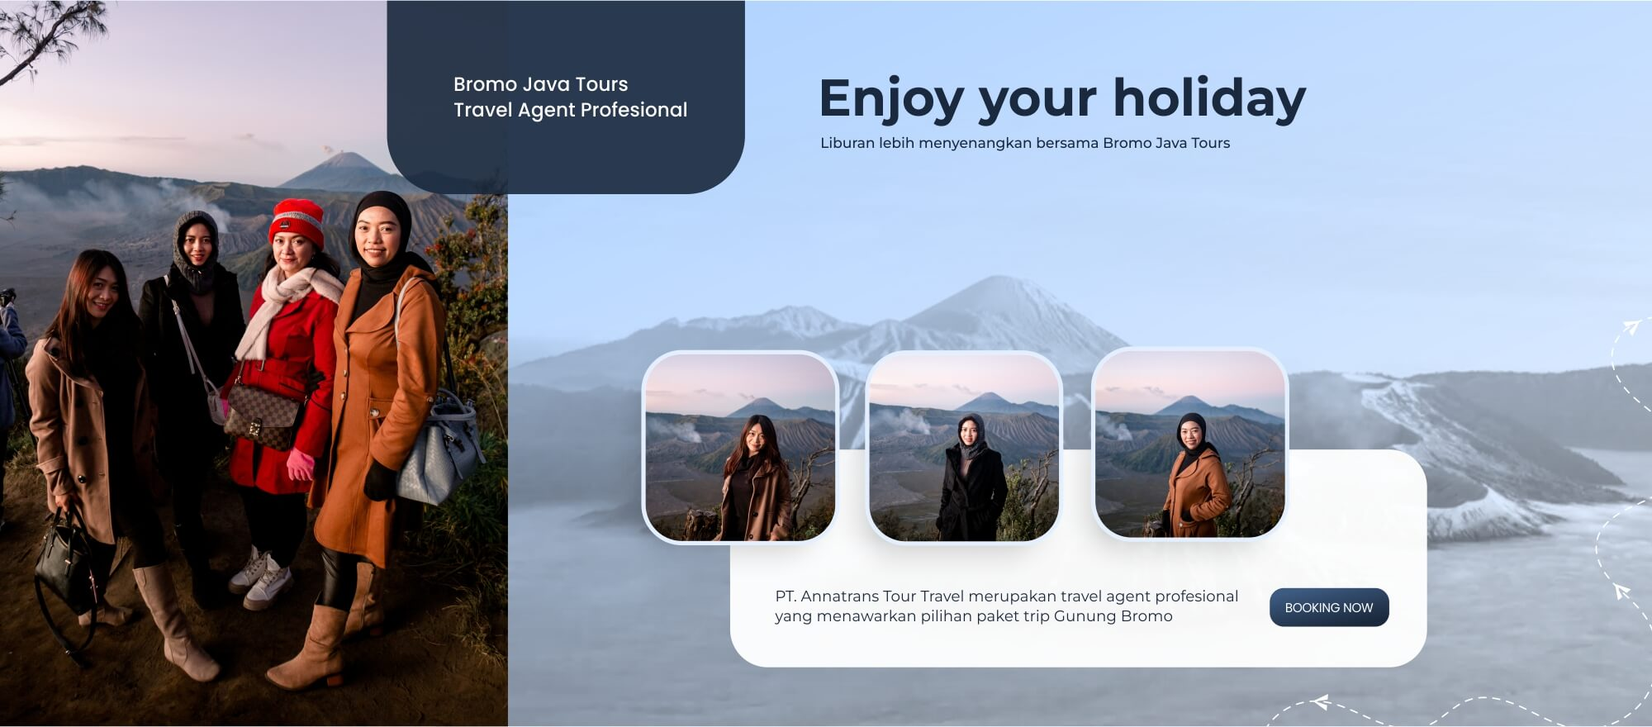
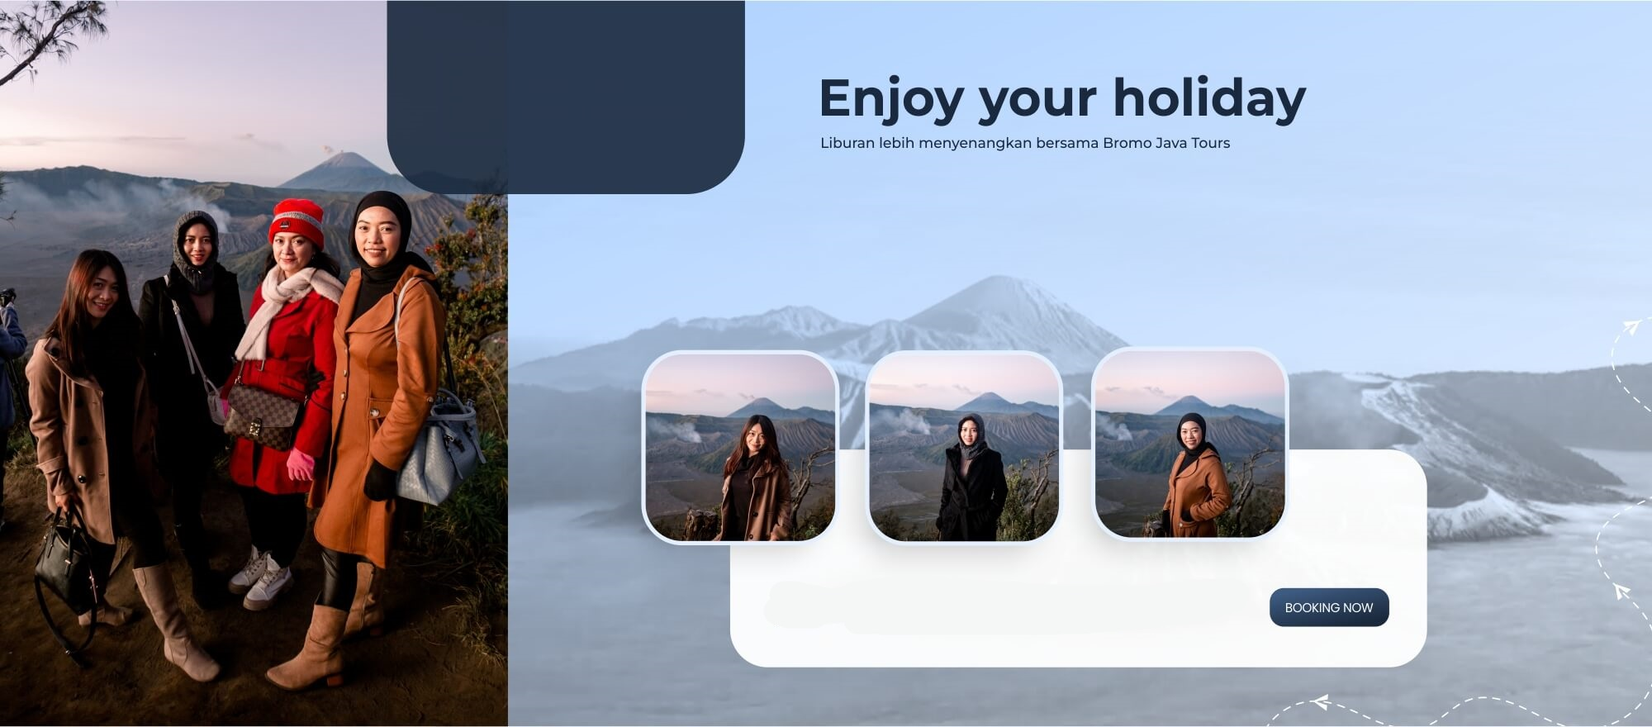
wip contact

Changed region(s): [[0.465, 0.7977, 0.744, 0.8591], [0.279, 0.092, 0.403, 0.1841]]

diff --git a/about.html b/about.html
@@ -37,10 +37,10 @@
                                     :where(.tf_in_flx,.tf_flx){display:inline-flex;flex-wrap:wrap;place-items:center}
             .tf_fa,:is(em,i) tf-lottie{display:inline-block;vertical-align:middle}:is(em,i) tf-lottie{width:1.5em;height:1.5em}.tf_fa{width:1em;height:1em;stroke-width:0;stroke:currentColor;overflow:visible;fill:currentColor;pointer-events:none;text-rendering:optimizeSpeed;buffered-rendering:static}#tf_svg symbol{overflow:visible}:where(.tf_lazy){position:relative;visibility:visible;display:block;opacity:.3}.wow .tf_lazy:not(.tf_swiper-slide){visibility:hidden;opacity:1}div.tf_audio_lazy audio{visibility:hidden;height:0;display:inline}.mejs-container{visibility:visible}.tf_iframe_lazy{transition:opacity .3s ease-in-out;min-height:10px}:where(.tf_flx),.tf_swiper-wrapper{display:flex}.tf_swiper-slide{flex-shrink:0;opacity:0;width:100%;height:100%}.tf_swiper-wrapper>br,.tf_lazy.tf_swiper-wrapper .tf_lazy:after,.tf_lazy.tf_swiper-wrapper .tf_lazy:before{display:none}.tf_lazy:after,.tf_lazy:before{content:'';display:inline-block;position:absolute;width:10px!important;height:10px!important;margin:0 3px;top:50%!important;inset-inline:auto 50%!important;border-radius:100%;background-color:currentColor;visibility:visible;animation:tf-hrz-loader infinite .75s cubic-bezier(.2,.68,.18,1.08)}.tf_lazy:after{width:6px!important;height:6px!important;inset-inline:50% auto!important;margin-top:3px;animation-delay:-.4s}@keyframes tf-hrz-loader{0%,100%{transform:scale(1);opacity:1}50%{transform:scale(.1);opacity:.6}}.tf_lazy_lightbox{position:fixed;background:rgba(11,11,11,.8);color:#ccc;top:0;left:0;display:flex;align-items:center;justify-content:center;z-index:999}.tf_lazy_lightbox .tf_lazy:after,.tf_lazy_lightbox .tf_lazy:before{background:#fff}.tf_vd_lazy,tf-lottie{display:flex;flex-wrap:wrap}tf-lottie{aspect-ratio:1.777}.tf_w.tf_vd_lazy video{width:100%;height:auto;position:static;object-fit:cover}
         </style>
-        <link type="image/png" href="images/bromojavatours-fav.png" rel="apple-touch-icon"><link type="image/png" href="images/bromojavatours-fav.png" rel="icon"><title>Tentang Kami  PT. Annatrans Tour Travel</title>
+        <link type="image/png" href="images/bromojavatours-fav.png" rel="apple-touch-icon"><link type="image/png" href="images/bromojavatours-fav.png" rel="icon"><title>Tentang Kami  PT. Pra travel&tour</title>
 <meta name="robots" content="max-image-preview:large">
-<link rel="alternate" type="application/rss+xml" title="PT. Annatrans Tour Travel � Feed" href="https://www.bromojavatours.com/feed/">
-<link rel="alternate" type="application/rss+xml" title="PT. Annatrans Tour Travel � Umpan Komentar" href="https://www.bromojavatours.com/comments/feed/">
+<link rel="alternate" type="application/rss+xml" title="PT. Pra travel&tour � Feed" href="https://www.bromojavatours.com/feed/">
+<link rel="alternate" type="application/rss+xml" title="PT. Pra travel&tour � Umpan Komentar" href="https://www.bromojavatours.com/comments/feed/">
 <link rel="alternate" title="oEmbed (JSON)" type="application/json+oembed" href="https://www.bromojavatours.com/wp-json/oembed/1.0/embed?url=https%3A%2F%2Fwww.bromojavatours.com%2Ftentang-kami%2F">
 <link rel="alternate" title="oEmbed (XML)" type="text/xml+oembed" href="https://www.bromojavatours.com/wp-json/oembed/1.0/embed?url=https%3A%2F%2Fwww.bromojavatours.com%2Ftentang-kami%2F&format=xml">
 <style id="wp-img-auto-sizes-contain-inline-css">
@@ -61,7 +61,7 @@ img:is([sizes=auto i],[sizes^="auto," i]){contain-intrinsic-size:3000px 1500px}
 <script src="js/jquery.themepunch.revolution.min.js" id="revmin-js"></script>
 <link rel="https://api.w.org/" href="https://www.bromojavatours.com/wp-json/"><link rel="alternate" title="JSON" type="application/json" href="https://www.bromojavatours.com/wp-json/wp/v2/pages/125"><link rel="EditURI" type="application/rsd+xml" title="RSD" href="https://www.bromojavatours.com/xmlrpc.php?rsd">
 <meta name="generator" content="WordPress 6.9.1">
-<link rel="canonical" href="https://www.bromojavatours.com/tentang-kami/">
+<link rel="canonical" href="about.html">
 <link rel="shortlink" href="https://www.bromojavatours.com/?p=125">
 <style>p.hello{font-size:12px;color:darkgray;}#google_language_translator,#flags{text-align:left;}#google_language_translator{clear:both;}#flags{width:165px;}#flags a{display:inline-block;margin-right:2px;}#google_language_translator a{display:none!important;}div.skiptranslate.goog-te-gadget{display:inline!important;}.goog-te-gadget{color:transparent!important;}.goog-te-gadget{font-size:0px!important;}.goog-branding{display:none;}.goog-tooltip{display: none!important;}.goog-tooltip:hover{display: none!important;}.goog-text-highlight{background-color:transparent!important;border:none!important;box-shadow:none!important;}#google_language_translator select.goog-te-combo{color:#32373c;}div.skiptranslate{display:none!important;}body{top:0px!important;}#goog-gt-{display:none!important;}font font{background-color:transparent!important;box-shadow:none!important;position:initial!important;}#glt-translate-trigger > span{color:#ffffff;}#glt-translate-trigger{background:#3c35cc;}.goog-te-gadget .goog-te-combo{width:100%;}</style>
 	<style>
@@ -199,7 +199,7 @@ color:white;
 
 	            
 	            <div class="header-bar tf_box">
-				    <div id="site-logo"><a href="https://www.bromojavatours.com" title="PT. Annatrans Tour Travel"><img src="images/pra-travel-and-tour-logo.png" alt="PT. Pra travel&tour" class="site-logo-image" width="auto" height="100px" data-tf-not-load="1" fetchpriority="high"></a></div>				</div>
+				    <div id="site-logo"><a href="https://www.bromojavatours.com" title="PT. Pra travel&tour"><img src="images/pra-travel-and-tour-logo.png" alt="PT. Pra travel&tour" class="site-logo-image" width="auto" height="100px" data-tf-not-load="1" fetchpriority="high"></a></div>				</div>
 				<!-- /.header-bar -->
 
 									<div id="mobile-menu" class="sidemenu sidemenu-off tf_scrollbar">
@@ -302,7 +302,7 @@ color:white;
                     <!-- module text -->
 <div class="module module-text tb_7otf600   " data-lazy="1">
         <div class="tb_text_wrap">
-        <p>PT. Annatrans Tour Travel adalah perusahaan travel agent yang menawarkan paket wisata Gunung Bromo dengan harga yang cukup terjangkau, Anda bisa menikmati suasana gunung bromo secara langsung dipuncak gunung. Ada beberapa paket yang kami tawarkan untuk Anda, diantaranya Open Trip Bromo, Tour & Sunrise Bromo, Paket wisata Bromo Ijen, Bromo ijen tumpakswu dan lainnya.</p>
+        <p>PT. Pra travel&tour adalah perusahaan travel agent yang menawarkan paket wisata Gunung Bromo dengan harga yang cukup terjangkau, Anda bisa menikmati suasana gunung bromo secara langsung dipuncak gunung. Ada beberapa paket yang kami tawarkan untuk Anda, diantaranya Open Trip Bromo, Tour & Sunrise Bromo, Paket wisata Bromo Ijen, Bromo ijen tumpakswu dan lainnya.</p>
 <p>Anda akan mendapatkan banyak fasilitas selama perjalanan wisata, mulai dari kendaraan terbaru bersih & nyaman, tour guide profesional, transportasi menuju lokasi, dan dokumentasi berupa foto dan video. Selain itu, kami juga menyewakan Jeep  untuk berkeliling disekitar kawasan Gunung Bromo dan sewa mobil harian maupun bulanan.</p>    </div>
 </div>
 <!-- /module text -->        </div>
@@ -327,7 +327,7 @@ color:white;
 <li>Surat Ijin Lokasi No Induk Usaha  0405230008469xxxx</li>
 <li>Tanda daftar usaha pariwisata (TDP): no. Induk usaha 040523000xxxx</li>
 <li>Nomor Induk Usaha (NIB) No. 040523000xxxx</li>
-<li>Surat keterangan terdaftar PT. ANNATRANS TOUR TRAVEL : No. AHU-030314.AH.xx.xx.Tahun 2023</li>
+<li>Surat keterangan terdaftar PT. Pra travel&tour : No. AHU-030314.AH.xx.xx.Tahun 2023</li>
 </ul>    </div>
 </div>
 <!-- /module text -->        <div data-lazy="1" class="module_subrow themify_builder_sub_row tf_w col_align_middle tb_col_count_2 tb_hxwc117">
@@ -352,7 +352,7 @@ color:white;
 <!-- module text -->
 <div class="module module-text tb_0edh984   " data-lazy="1">
         <div class="tb_text_wrap">
-        <p>BANK SYARIAH INDONESIA (BSI)<br>7234815738<br>a.n PT. ANNATRANS TOUR TRAVEL</p>    </div>
+        <p>BANK SYARIAH INDONESIA (BSI)<br>7234815738<br>a.n PT. Pra travel&tour</p>    </div>
 </div>
 <!-- /module text -->        </div>
                     </div>
@@ -365,7 +365,7 @@ color:white;
                     <!-- module text -->
 <div class="module module-text tb_ratw656   " data-lazy="1">
         <div class="tb_text_wrap">
-        <p>PT. Annatrans Tour Travel berlokasi di Dusun Krajan RT 03 RW 01 Tambaksari, Kraton, Kab. Pasuruan, Jawa Timur. Untuk Anda yang ingin berkonsultasi dengan kami secara langsung, Anda bisa datang langsung ke kantor kami.</p>    </div>
+        <p>PT. Pra travel&tour berlokasi di Dusun Krajan RT 03 RW 01 Tambaksari, Kraton, Kab. Pasuruan, Jawa Timur. Untuk Anda yang ingin berkonsultasi dengan kami secara langsung, Anda bisa datang langsung ke kantor kami.</p>    </div>
 </div>
 <!-- /module text -->        <div data-lazy="1" class="module_subrow themify_builder_sub_row tf_w col_align_top tb_col_count_4 tb_d8ai307">
                 <div data-lazy="1" class="module_column sub_column col4-1 tb_594n307 first">
@@ -481,7 +481,7 @@ color:white;
 <!-- /module plain text --><!-- module text -->
 <div class="module module-text tb_3v9i788   " data-lazy="1">
         <div class="tb_text_wrap">
-        <p>PT. Annatrans Tour Travel merupakan perusahaan tour travel yang menawarkan paket wisata Gunung Bromo dengan harga yang cukup terjangkau, fasilitas lengkap, tour guide profesional.</p>    </div>
+        <p>PT. Pra travel&tour merupakan perusahaan tour travel yang menawarkan paket wisata Gunung Bromo dengan harga yang cukup terjangkau, fasilitas lengkap, tour guide profesional.</p>    </div>
 </div>
 <!-- /module text -->        </div>
                     </div>
@@ -530,6 +530,12 @@ color:white;
                             <a href="tel:081336892883" rel="noopener" target="_blank">
                                                                     <em class="tf_box"><svg class="tf_fa tf-la-phone-volume-solid" aria-hidden="true"><use href="#tf-la-phone-volume-solid"></use></svg></em>
                                                                             <span>Admin 2 : 0813-3689-2883</span>
+                                                                    </a>
+                    </div>
+            <div class="module-icon-item">
+                            <a href="mailto:" rel="noopener" target="_blank">
+                                                                    <em class="tf_box"><svg class="tf_fa tf-la-envelope" aria-hidden="true"><use href="#tf-la-envelope"></use></svg></em>
+                                                                            <span></span>
                                                                     </a>
                     </div>
             <div class="module-icon-item">

diff --git a/index.html b/index.html
@@ -34,10 +34,10 @@
                                     :where(.tf_in_flx,.tf_flx){display:inline-flex;flex-wrap:wrap;place-items:center}
             .tf_fa,:is(em,i) tf-lottie{display:inline-block;vertical-align:middle}:is(em,i) tf-lottie{width:1.5em;height:1.5em}.tf_fa{width:1em;height:1em;stroke-width:0;stroke:currentColor;overflow:visible;fill:currentColor;pointer-events:none;text-rendering:optimizeSpeed;buffered-rendering:static}#tf_svg symbol{overflow:visible}:where(.tf_lazy){position:relative;visibility:visible;display:block;opacity:.3}.wow .tf_lazy:not(.tf_swiper-slide){visibility:hidden;opacity:1}div.tf_audio_lazy audio{visibility:hidden;height:0;display:inline}.mejs-container{visibility:visible}.tf_iframe_lazy{transition:opacity .3s ease-in-out;min-height:10px}:where(.tf_flx),.tf_swiper-wrapper{display:flex}.tf_swiper-slide{flex-shrink:0;opacity:0;width:100%;height:100%}.tf_swiper-wrapper>br,.tf_lazy.tf_swiper-wrapper .tf_lazy:after,.tf_lazy.tf_swiper-wrapper .tf_lazy:before{display:none}.tf_lazy:after,.tf_lazy:before{content:'';display:inline-block;position:absolute;width:10px!important;height:10px!important;margin:0 3px;top:50%!important;inset-inline:auto 50%!important;border-radius:100%;background-color:currentColor;visibility:visible;animation:tf-hrz-loader infinite .75s cubic-bezier(.2,.68,.18,1.08)}.tf_lazy:after{width:6px!important;height:6px!important;inset-inline:50% auto!important;margin-top:3px;animation-delay:-.4s}@keyframes tf-hrz-loader{0%,100%{transform:scale(1);opacity:1}50%{transform:scale(.1);opacity:.6}}.tf_lazy_lightbox{position:fixed;background:rgba(11,11,11,.8);color:#ccc;top:0;left:0;display:flex;align-items:center;justify-content:center;z-index:999}.tf_lazy_lightbox .tf_lazy:after,.tf_lazy_lightbox .tf_lazy:before{background:#fff}.tf_vd_lazy,tf-lottie{display:flex;flex-wrap:wrap}tf-lottie{aspect-ratio:1.777}.tf_w.tf_vd_lazy video{width:100%;height:auto;position:static;object-fit:cover}
         </style>
-        <link type="image/png" href="images/bromojavatours-fav.png" rel="apple-touch-icon"><link type="image/png" href="images/bromojavatours-fav.png" rel="icon"><title>PT. Annatrans Tour Travel  Open Trip & Paket Wisata Gunung Bromo</title>
+        <link type="image/png" href="images/bromojavatours-fav.png" rel="apple-touch-icon"><link type="image/png" href="images/bromojavatours-fav.png" rel="icon"><title>PT. Pra travel&tour  Open Trip & Paket Wisata Gunung Bromo</title>
 <meta name="robots" content="max-image-preview:large">
-<link rel="alternate" type="application/rss+xml" title="PT. Annatrans Tour Travel � Feed" href="https://www.bromojavatours.com/feed/">
-<link rel="alternate" type="application/rss+xml" title="PT. Annatrans Tour Travel � Umpan Komentar" href="https://www.bromojavatours.com/comments/feed/">
+<link rel="alternate" type="application/rss+xml" title="PT. Pra travel&tour � Feed" href="https://www.bromojavatours.com/feed/">
+<link rel="alternate" type="application/rss+xml" title="PT. Pra travel&tour � Umpan Komentar" href="https://www.bromojavatours.com/comments/feed/">
 <link rel="alternate" title="oEmbed (JSON)" type="application/json+oembed" href="https://www.bromojavatours.com/wp-json/oembed/1.0/embed?url=https%3A%2F%2Fwww.bromojavatours.com%2F">
 <link rel="alternate" title="oEmbed (XML)" type="text/xml+oembed" href="https://www.bromojavatours.com/wp-json/oembed/1.0/embed?url=https%3A%2F%2Fwww.bromojavatours.com%2F&format=xml">
 <style id="wp-img-auto-sizes-contain-inline-css">
@@ -220,7 +220,7 @@ color:white;
 
 	            
 	            <div class="header-bar tf_box">
-				    <div id="site-logo"><a href="https://www.bromojavatours.com" title="PT. Annatrans Tour Travel"><img src="images/pra-travel-and-tour-logo.png" alt="PT. Pra travel&tour" class="site-logo-image" width="auto" height="100px" data-tf-not-load="1" fetchpriority="high"></a></div>				</div>
+				    <div id="site-logo"><a href="https://www.bromojavatours.com" title="PT. Pra travel&tour"><img src="images/pra-travel-and-tour-logo.png" alt="PT. Pra travel&tour" class="site-logo-image" width="auto" height="100px" data-tf-not-load="1" fetchpriority="high"></a></div>				</div>
 				<!-- /.header-bar -->
 
 									<div id="mobile-menu" class="sidemenu sidemenu-off tf_scrollbar">
@@ -441,12 +441,12 @@ var revapi1,
 <div class="module module-text tb_0m8b134   " data-lazy="1">
         <div class="tb_text_wrap">
         <p>Bromo adalah nama sebuah gunung yang berlokasi di Kabupaten Probolinggo, Jawa Timur. Gunung Bromo adalah bagian dari Taman Nasional Bromo Tengger Semeru yang terkenal di Indonesia.</p>
-<p><strong>ANNATRANS Tour Travel</strong> mengajak Anda untuk berwisata di Gunung Bromo. Ajak teman atau sahabat terdekat Anda untuk menikmati suasana alam yang indah di Jawa Timur. Kami menawarkan paket trip Gunung Bromo dengan harga yang cukup terjangkau.</p>    </div>
+<p><strong>Pra travel&tour</strong> mengajak Anda untuk berwisata di Gunung Bromo. Ajak teman atau sahabat terdekat Anda untuk menikmati suasana alam yang indah di Jawa Timur. Kami menawarkan paket trip Gunung Bromo dengan harga yang cukup terjangkau.</p>    </div>
 </div>
 <!-- /module text --><!-- module buttons -->
 <div class="module module-buttons tb_695h152 buttons-horizontal solid  " data-lazy="1">
         <div class="module-buttons-item tf_in_flx">
-                        <a href="https://www.bromojavatours.com/tentang-kami/" class="ui builder_button tf_in_flx tb_default_color">
+                        <a href="about.html" class="ui builder_button tf_in_flx tb_default_color">
                                                 Selengkapnya [...]                                        </a>
                 </div>
             </div>
@@ -601,7 +601,7 @@ var revapi1,
 <!-- /module plain text --><!-- module buttons -->
 <div class="module module-buttons tb_1p33422 buttons-horizontal solid  " data-lazy="1">
         <div class="module-buttons-item tf_in_flx">
-                        <a href="https://www.bromojavatours.com/paket-wisata/" class="ui builder_button tf_in_flx tb_default_color">
+                        <a href="packet.html" class="ui builder_button tf_in_flx tb_default_color">
                                                 Lihat Paket                                        <em><svg class="tf_fa tf-la-arrow-right-solid" aria-hidden="true"><use href="#tf-la-arrow-right-solid"></use></svg></em>                            </a>
                 </div>
             </div>
@@ -642,7 +642,7 @@ var revapi1,
 <!-- /module plain text --><!-- module buttons -->
 <div class="module module-buttons tb_cfzy67 buttons-horizontal solid  " data-lazy="1">
         <div class="module-buttons-item tf_in_flx">
-                        <a href="https://www.bromojavatours.com/paket-wisata/" class="ui builder_button tf_in_flx tb_default_color">
+                        <a href="packet.html" class="ui builder_button tf_in_flx tb_default_color">
                                                 Lihat Paket                                        <em><svg class="tf_fa tf-la-arrow-right-solid" aria-hidden="true"><use href="#tf-la-arrow-right-solid"></use></svg></em>                            </a>
                 </div>
             </div>
@@ -680,7 +680,7 @@ var revapi1,
 <!-- /module plain text --><!-- module buttons -->
 <div class="module module-buttons tb_c26q554 buttons-horizontal solid  " data-lazy="1">
         <div class="module-buttons-item tf_in_flx">
-                        <a href="https://www.bromojavatours.com/paket-wisata/#religi" class="ui builder_button tf_in_flx tb_default_color">
+                        <a href="packet.html#religi" class="ui builder_button tf_in_flx tb_default_color">
                                                 Lihat Paket                                        <em><svg class="tf_fa tf-la-arrow-right-solid" aria-hidden="true"><use href="#tf-la-arrow-right-solid"></use></svg></em>                            </a>
                 </div>
             </div>
@@ -951,7 +951,7 @@ var revapi1,
 <!-- /module plain text --><!-- module plain text -->
 <div class="module module-plain-text tb_nvj6697 " data-lazy="1">
         <div class="tb_text_wrap">
-    ANNATRANS Tour Travel telah dipercaya oleh banyak wisatawan yang ingin berwisata ke Gunung Bromo. Dengan tour guide profesional dan berpengalaman, kami akan ajak Anda menikmati suasana alam disekitar Gunung Bromo, Layanan Sewa Jeep Bromo bisa Anda manfaatkan untuk berkeliling di kawasan Pasir Berbisik atau untuk sekedar berfoto ria.    </div>
+    Pra travel&tour telah dipercaya oleh banyak wisatawan yang ingin berwisata ke Gunung Bromo. Dengan tour guide profesional dan berpengalaman, kami akan ajak Anda menikmati suasana alam disekitar Gunung Bromo, Layanan Sewa Jeep Bromo bisa Anda manfaatkan untuk berkeliling di kawasan Pasir Berbisik atau untuk sekedar berfoto ria.    </div>
 </div>
 <!-- /module plain text --><!-- module buttons -->
 <div class="module module-buttons tb_81x8155 buttons-horizontal solid   hover-wow" data-tf-animation_hover="pulse" data-lazy="1">
@@ -1017,7 +1017,7 @@ var revapi1,
 <!-- /module plain text --><!-- module text -->
 <div class="module module-text tb_3v9i788   " data-lazy="1">
         <div class="tb_text_wrap">
-        <p>PT. Annatrans Tour Travel merupakan perusahaan tour travel yang menawarkan paket wisata Gunung Bromo dengan harga yang cukup terjangkau, fasilitas lengkap, tour guide profesional.</p>    </div>
+        <p>PT. Pra travel&tour merupakan perusahaan tour travel yang menawarkan paket wisata Gunung Bromo dengan harga yang cukup terjangkau, fasilitas lengkap, tour guide profesional.</p>    </div>
 </div>
 <!-- /module text -->        </div>
                     </div>
@@ -1069,9 +1069,9 @@ var revapi1,
                                                                     </a>
                     </div>
             <div class="module-icon-item">
-                            <a href="/cdn-cgi/l/email-protection#a8d8dc86c9c6c6c9dcdac9c6dbdcc7dddadcdac9decdc4e8cfc5c9c1c486cbc7c5" rel="noopener" target="_blank">
+                            <a href="mailto:" rel="noopener" target="_blank">
                                                                     <em class="tf_box"><svg class="tf_fa tf-la-envelope" aria-hidden="true"><use href="#tf-la-envelope"></use></svg></em>
[1 lines of base64/hex data omitted]
+                                                                            <span></span>
                                                                     </a>
                     </div>
             <div class="module-icon-item">

diff --git a/packet.html b/packet.html
@@ -37,10 +37,10 @@
                                     :where(.tf_in_flx,.tf_flx){display:inline-flex;flex-wrap:wrap;place-items:center}
             .tf_fa,:is(em,i) tf-lottie{display:inline-block;vertical-align:middle}:is(em,i) tf-lottie{width:1.5em;height:1.5em}.tf_fa{width:1em;height:1em;stroke-width:0;stroke:currentColor;overflow:visible;fill:currentColor;pointer-events:none;text-rendering:optimizeSpeed;buffered-rendering:static}#tf_svg symbol{overflow:visible}:where(.tf_lazy){position:relative;visibility:visible;display:block;opacity:.3}.wow .tf_lazy:not(.tf_swiper-slide){visibility:hidden;opacity:1}div.tf_audio_lazy audio{visibility:hidden;height:0;display:inline}.mejs-container{visibility:visible}.tf_iframe_lazy{transition:opacity .3s ease-in-out;min-height:10px}:where(.tf_flx),.tf_swiper-wrapper{display:flex}.tf_swiper-slide{flex-shrink:0;opacity:0;width:100%;height:100%}.tf_swiper-wrapper>br,.tf_lazy.tf_swiper-wrapper .tf_lazy:after,.tf_lazy.tf_swiper-wrapper .tf_lazy:before{display:none}.tf_lazy:after,.tf_lazy:before{content:'';display:inline-block;position:absolute;width:10px!important;height:10px!important;margin:0 3px;top:50%!important;inset-inline:auto 50%!important;border-radius:100%;background-color:currentColor;visibility:visible;animation:tf-hrz-loader infinite .75s cubic-bezier(.2,.68,.18,1.08)}.tf_lazy:after{width:6px!important;height:6px!important;inset-inline:50% auto!important;margin-top:3px;animation-delay:-.4s}@keyframes tf-hrz-loader{0%,100%{transform:scale(1);opacity:1}50%{transform:scale(.1);opacity:.6}}.tf_lazy_lightbox{position:fixed;background:rgba(11,11,11,.8);color:#ccc;top:0;left:0;display:flex;align-items:center;justify-content:center;z-index:999}.tf_lazy_lightbox .tf_lazy:after,.tf_lazy_lightbox .tf_lazy:before{background:#fff}.tf_vd_lazy,tf-lottie{display:flex;flex-wrap:wrap}tf-lottie{aspect-ratio:1.777}.tf_w.tf_vd_lazy video{width:100%;height:auto;position:static;object-fit:cover}
         </style>
-        <link type="image/png" href="images/bromojavatours-fav.png" rel="apple-touch-icon"><link type="image/png" href="images/bromojavatours-fav.png" rel="icon"><title>Paket Wisata  PT. Annatrans Tour Travel</title>
+        <link type="image/png" href="images/bromojavatours-fav.png" rel="apple-touch-icon"><link type="image/png" href="images/bromojavatours-fav.png" rel="icon"><title>Paket Wisata  PT. Pra travel&tour</title>
 <meta name="robots" content="max-image-preview:large">
-<link rel="alternate" type="application/rss+xml" title="PT. Annatrans Tour Travel � Feed" href="https://www.bromojavatours.com/feed/">
-<link rel="alternate" type="application/rss+xml" title="PT. Annatrans Tour Travel � Umpan Komentar" href="https://www.bromojavatours.com/comments/feed/">
+<link rel="alternate" type="application/rss+xml" title="PT. Pra travel&tour � Feed" href="https://www.bromojavatours.com/feed/">
+<link rel="alternate" type="application/rss+xml" title="PT. Pra travel&tour � Umpan Komentar" href="https://www.bromojavatours.com/comments/feed/">
 <link rel="alternate" title="oEmbed (JSON)" type="application/json+oembed" href="https://www.bromojavatours.com/wp-json/oembed/1.0/embed?url=https%3A%2F%2Fwww.bromojavatours.com%2Fpaket-wisata%2F">
 <link rel="alternate" title="oEmbed (XML)" type="text/xml+oembed" href="https://www.bromojavatours.com/wp-json/oembed/1.0/embed?url=https%3A%2F%2Fwww.bromojavatours.com%2Fpaket-wisata%2F&format=xml">
 <style id="wp-img-auto-sizes-contain-inline-css">
@@ -61,7 +61,7 @@ img:is([sizes=auto i],[sizes^="auto," i]){contain-intrinsic-size:3000px 1500px}
 <script src="js/jquery.themepunch.revolution.min.js" id="revmin-js"></script>
 <link rel="https://api.w.org/" href="https://www.bromojavatours.com/wp-json/"><link rel="alternate" title="JSON" type="application/json" href="https://www.bromojavatours.com/wp-json/wp/v2/pages/121"><link rel="EditURI" type="application/rsd+xml" title="RSD" href="https://www.bromojavatours.com/xmlrpc.php?rsd">
 <meta name="generator" content="WordPress 6.9.1">
-<link rel="canonical" href="https://www.bromojavatours.com/paket-wisata/">
+<link rel="canonical" href="packet.html">
 <link rel="shortlink" href="https://www.bromojavatours.com/?p=121">
 <style>p.hello{font-size:12px;color:darkgray;}#google_language_translator,#flags{text-align:left;}#google_language_translator{clear:both;}#flags{width:165px;}#flags a{display:inline-block;margin-right:2px;}#google_language_translator a{display:none!important;}div.skiptranslate.goog-te-gadget{display:inline!important;}.goog-te-gadget{color:transparent!important;}.goog-te-gadget{font-size:0px!important;}.goog-branding{display:none;}.goog-tooltip{display: none!important;}.goog-tooltip:hover{display: none!important;}.goog-text-highlight{background-color:transparent!important;border:none!important;box-shadow:none!important;}#google_language_translator select.goog-te-combo{color:#32373c;}div.skiptranslate{display:none!important;}body{top:0px!important;}#goog-gt-{display:none!important;}font font{background-color:transparent!important;box-shadow:none!important;position:initial!important;}#glt-translate-trigger > span{color:#ffffff;}#glt-translate-trigger{background:#3c35cc;}.goog-te-gadget .goog-te-combo{width:100%;}</style>
 	<style>
@@ -199,7 +199,7 @@ color:white;
 
 	            
 	            <div class="header-bar tf_box">
-				    <div id="site-logo"><a href="https://www.bromojavatours.com" title="PT. Annatrans Tour Travel"><img src="images/pra-travel-and-tour-logo.png" alt="PT. Pra travel&tour" class="site-logo-image" width="auto" height="100px" data-tf-not-load="1" fetchpriority="high"></a></div>				</div>
+				    <div id="site-logo"><a href="https://www.bromojavatours.com" title="PT. Pra travel&tour"><img src="images/pra-travel-and-tour-logo.png" alt="PT. Pra travel&tour" class="site-logo-image" width="auto" height="100px" data-tf-not-load="1" fetchpriority="high"></a></div>				</div>
 				<!-- /.header-bar -->
 
 									<div id="mobile-menu" class="sidemenu sidemenu-off tf_scrollbar">
@@ -3112,7 +3112,7 @@ color:white;
 <!-- /module plain text --><!-- module text -->
 <div class="module module-text tb_3v9i788   " data-lazy="1">
         <div class="tb_text_wrap">
-        <p>PT. Annatrans Tour Travel merupakan perusahaan tour travel yang menawarkan paket wisata Gunung Bromo dengan harga yang cukup terjangkau, fasilitas lengkap, tour guide profesional.</p>    </div>
+        <p>PT. Pra travel&tour merupakan perusahaan tour travel yang menawarkan paket wisata Gunung Bromo dengan harga yang cukup terjangkau, fasilitas lengkap, tour guide profesional.</p>    </div>
 </div>
 <!-- /module text -->        </div>
                     </div>
@@ -3161,6 +3161,12 @@ color:white;
                             <a href="tel:081336892883" rel="noopener" target="_blank">
                                                                     <em class="tf_box"><svg class="tf_fa tf-la-phone-volume-solid" aria-hidden="true"><use href="#tf-la-phone-volume-solid"></use></svg></em>
                                                                             <span>Admin 2 : 0813-3689-2883</span>
+                                                                    </a>
+                    </div>
+            <div class="module-icon-item">
+                            <a href="mailto:" rel="noopener" target="_blank">
+                                                                    <em class="tf_box"><svg class="tf_fa tf-la-envelope" aria-hidden="true"><use href="#tf-la-envelope"></use></svg></em>
+                                                                            <span></span>
                                                                     </a>
                     </div>
             <div class="module-icon-item">

diff --git a/rent.html b/rent.html
@@ -37,10 +37,10 @@
                                     :where(.tf_in_flx,.tf_flx){display:inline-flex;flex-wrap:wrap;place-items:center}
             .tf_fa,:is(em,i) tf-lottie{display:inline-block;vertical-align:middle}:is(em,i) tf-lottie{width:1.5em;height:1.5em}.tf_fa{width:1em;height:1em;stroke-width:0;stroke:currentColor;overflow:visible;fill:currentColor;pointer-events:none;text-rendering:optimizeSpeed;buffered-rendering:static}#tf_svg symbol{overflow:visible}:where(.tf_lazy){position:relative;visibility:visible;display:block;opacity:.3}.wow .tf_lazy:not(.tf_swiper-slide){visibility:hidden;opacity:1}div.tf_audio_lazy audio{visibility:hidden;height:0;display:inline}.mejs-container{visibility:visible}.tf_iframe_lazy{transition:opacity .3s ease-in-out;min-height:10px}:where(.tf_flx),.tf_swiper-wrapper{display:flex}.tf_swiper-slide{flex-shrink:0;opacity:0;width:100%;height:100%}.tf_swiper-wrapper>br,.tf_lazy.tf_swiper-wrapper .tf_lazy:after,.tf_lazy.tf_swiper-wrapper .tf_lazy:before{display:none}.tf_lazy:after,.tf_lazy:before{content:'';display:inline-block;position:absolute;width:10px!important;height:10px!important;margin:0 3px;top:50%!important;inset-inline:auto 50%!important;border-radius:100%;background-color:currentColor;visibility:visible;animation:tf-hrz-loader infinite .75s cubic-bezier(.2,.68,.18,1.08)}.tf_lazy:after{width:6px!important;height:6px!important;inset-inline:50% auto!important;margin-top:3px;animation-delay:-.4s}@keyframes tf-hrz-loader{0%,100%{transform:scale(1);opacity:1}50%{transform:scale(.1);opacity:.6}}.tf_lazy_lightbox{position:fixed;background:rgba(11,11,11,.8);color:#ccc;top:0;left:0;display:flex;align-items:center;justify-content:center;z-index:999}.tf_lazy_lightbox .tf_lazy:after,.tf_lazy_lightbox .tf_lazy:before{background:#fff}.tf_vd_lazy,tf-lottie{display:flex;flex-wrap:wrap}tf-lottie{aspect-ratio:1.777}.tf_w.tf_vd_lazy video{width:100%;height:auto;position:static;object-fit:cover}
         </style>
-        <link type="image/png" href="images/bromojavatours-fav.png" rel="apple-touch-icon"><link type="image/png" href="images/bromojavatours-fav.png" rel="icon"><title>Rental Mobil  PT. Annatrans Tour Travel</title>
+        <link type="image/png" href="images/bromojavatours-fav.png" rel="apple-touch-icon"><link type="image/png" href="images/bromojavatours-fav.png" rel="icon"><title>Rental Mobil  PT. Pra travel&tour</title>
 <meta name="robots" content="max-image-preview:large">
-<link rel="alternate" type="application/rss+xml" title="PT. Annatrans Tour Travel � Feed" href="https://www.bromojavatours.com/feed/">
-<link rel="alternate" type="application/rss+xml" title="PT. Annatrans Tour Travel � Umpan Komentar" href="https://www.bromojavatours.com/comments/feed/">
+<link rel="alternate" type="application/rss+xml" title="PT. Pra travel&tour � Feed" href="https://www.bromojavatours.com/feed/">
+<link rel="alternate" type="application/rss+xml" title="PT. Pra travel&tour � Umpan Komentar" href="https://www.bromojavatours.com/comments/feed/">
 <link rel="alternate" title="oEmbed (JSON)" type="application/json+oembed" href="https://www.bromojavatours.com/wp-json/oembed/1.0/embed?url=https%3A%2F%2Fwww.bromojavatours.com%2Frental-mobil%2F">
 <link rel="alternate" title="oEmbed (XML)" type="text/xml+oembed" href="https://www.bromojavatours.com/wp-json/oembed/1.0/embed?url=https%3A%2F%2Fwww.bromojavatours.com%2Frental-mobil%2F&format=xml">
 <style id="wp-img-auto-sizes-contain-inline-css">
@@ -199,7 +199,7 @@ color:white;
 
 	            
 	            <div class="header-bar tf_box">
-				    <div id="site-logo"><a href="https://www.bromojavatours.com" title="PT. Annatrans Tour Travel"><img src="images/pra-travel-and-tour-logo.png" alt="PT. Pra travel&tour" class="site-logo-image" width="auto" height="100px" data-tf-not-load="1" fetchpriority="high"></a></div>				</div>
+				    <div id="site-logo"><a href="https://www.bromojavatours.com" title="PT. Pra travel&tour"><img src="images/pra-travel-and-tour-logo.png" alt="PT. Pra travel&tour" class="site-logo-image" width="auto" height="100px" data-tf-not-load="1" fetchpriority="high"></a></div>				</div>
 				<!-- /.header-bar -->
 
 									<div id="mobile-menu" class="sidemenu sidemenu-off tf_scrollbar">
@@ -582,7 +582,7 @@ color:white;
 <!-- /module plain text --><!-- module text -->
 <div class="module module-text tb_3v9i788   " data-lazy="1">
         <div class="tb_text_wrap">
-        <p>PT. Annatrans Tour Travel merupakan perusahaan tour travel yang menawarkan paket wisata Gunung Bromo dengan harga yang cukup terjangkau, fasilitas lengkap, tour guide profesional.</p>    </div>
+        <p>PT. Pra travel&tour merupakan perusahaan tour travel yang menawarkan paket wisata Gunung Bromo dengan harga yang cukup terjangkau, fasilitas lengkap, tour guide profesional.</p>    </div>
 </div>
 <!-- /module text -->        </div>
                     </div>
@@ -631,6 +631,12 @@ color:white;
                             <a href="tel:081336892883" rel="noopener" target="_blank">
                                                                     <em class="tf_box"><svg class="tf_fa tf-la-phone-volume-solid" aria-hidden="true"><use href="#tf-la-phone-volume-solid"></use></svg></em>
                                                                             <span>Admin 2 : 0813-3689-2883</span>
+                                                                    </a>
+                    </div>
+            <div class="module-icon-item">
+                            <a href="mailto:" rel="noopener" target="_blank">
+                                                                    <em class="tf_box"><svg class="tf_fa tf-la-envelope" aria-hidden="true"><use href="#tf-la-envelope"></use></svg></em>
+                                                                            <span></span>
                                                                     </a>
                     </div>
             <div class="module-icon-item">

diff --git a/js/content-data.js b/js/content-data.js
@@ -9,22 +9,24 @@ var SITE_CONTENT = {
   },
   "topbar": {
     "promo": "Promo Paket Wisata Bromo",
-    "phone1": "0899-9999-9999",
-    "phone2": "08xx-xxxx-xxxx"
+    "phone1": "+62823-0128-7662",
+    "phone2": "+628xx-xxxx-xxxx"
   },
   "nav": {
     "home": "Home",
     "packages": "Paket Wisata",
     "rental": "Rental Mobil",
-    "about": "Tentang Kami"
+    "about": "Tentang Kami",
+    "contactUrl": "https://wa.me/6282301287662"
   },
 
   "footer": {
     "brandName": "Pra travel&tour",
     "description": "<p>PT. Pra travel&tour merupakan perusahaan tour travel yang menawarkan paket wisata Gunung Bromo dengan harga yang cukup terjangkau, fasilitas lengkap, tour guide profesional.</p>",
     "contactTitle": "Hubungi Kami",
-    "admin1": "Admin 1 : \u202a0812-3126-8185",
-    "admin2": "Admin 2 : 0813-3689-2883",
+    "admin1": "Admin 1 : +62823-0128-7662",
+    "admin2": "Admin 2 : +62899-9999-9999",
+    "email": "pratravelandtour@gmail.com",
     "address": "Krajan 1, Sepuhgembol, Kec. Wonomerto, Kabupaten Probolinggo, Jawa Timur 67253",
     "copyright": "\u00a9 2026 Pra travel&tour. All Rights Reserved."
   },
@@ -33,7 +35,7 @@ var SITE_CONTENT = {
     "welcome": "WELCOME TO OUR WEBSITE",
 
     "aboutTitle": "About<span style=\"color: #333;\"> Us</span>",
-    "aboutPara1": "<p>Bromo adalah nama sebuah gunung yang berlokasi di Kabupaten Probolinggo, Jawa Timur. Gunung Bromo adalah bagian dari Taman Nasional Bromo Tengger Semeru yang terkenal di Indonesia.</p>\n<p><strong>ANNATRANS Tour Travel</strong> mengajak Anda untuk berwisata di Gunung Bromo. Ajak teman atau sahabat terdekat Anda untuk menikmati suasana alam yang indah di Jawa Timur. Kami menawarkan paket trip Gunung Bromo dengan harga yang cukup terjangkau.</p>",
+    "aboutPara1": "<p>Bromo adalah nama sebuah gunung yang berlokasi di Krajan 1, Sepuhgembol, Kec. Wonomerto, Kabupaten Probolinggo, Jawa Timur. Gunung Bromo adalah bagian dari Taman Nasional Bromo Tengger Semeru yang terkenal di Indonesia.</p>\n<p><strong>Pra travel&tour</strong> mengajak Anda untuk berwisata di Gunung Bromo. Ajak teman atau sahabat terdekat Anda untuk menikmati suasana alam yang indah di Jawa Timur. Kami menawarkan paket trip Gunung Bromo dengan harga yang cukup terjangkau.</p>",
     "aboutPara2": "<p>Nikmati liburan menyenangkan Anda bersama teman, sahabat, keluarga di Gunung Bromo, ada banyak tempat yang bisa Anda eksplore seperti Kawah Gunung Bromo, Padang Rumput Savana, Pasir Berbisik, Bukit Teletubbies Bromo dan lainnya.</p>",
     "aboutButton": "Selengkapnya [...]",
 
@@ -84,7 +86,7 @@ var SITE_CONTENT = {
     ],
 
     "ctaHeading": "Enjoy your holiday",
-    "ctaDescription": "ANNATRANS Tour Travel telah dipercaya oleh banyak wisatawan yang ingin berwisata ke Gunung Bromo. Dengan tour guide profesional dan berpengalaman, kami akan ajak Anda menikmati suasana alam disekitar Gunung Bromo, Layanan Sewa Jeep Bromo bisa Anda manfaatkan untuk berkeliling di kawasan Pasir Berbisik atau untuk sekedar berfoto ria.",
+    "ctaDescription": "Pra travel&tour telah dipercaya oleh banyak wisatawan yang ingin berwisata ke Gunung Bromo. Dengan tour guide profesional dan berpengalaman, kami akan ajak Anda menikmati suasana alam disekitar Gunung Bromo, Layanan Sewa Jeep Bromo bisa Anda manfaatkan untuk berkeliling di kawasan Pasir Berbisik atau untuk sekedar berfoto ria.",
     "ctaButton": "Kontak Kami"
   },
 

diff --git a/js/content-loader.js b/js/content-loader.js
@@ -124,16 +124,30 @@
     var contactItems = document.querySelectorAll('.tb_nzer380 .module-icon-item');
     if (contactItems[0]) { var s = contactItems[0].querySelector('span'); if (s) s.textContent = data.footer.admin1; }
     if (contactItems[1]) { var s = contactItems[1].querySelector('span'); if (s) s.textContent = data.footer.admin2; }
-    // item[2] is a Cloudflare-obfuscated email — leave it alone
-    // address is at index 3 on index.html (which has email at [2]), index 2 on others
-    var addrIdx = contactItems.length >= 4 ? 3 : 2;
-    if (contactItems[addrIdx]) {
-      var s = contactItems[addrIdx].querySelector('span');
+    // item[2] is the email link — set href and visible text from content-data.js
+    if (contactItems[2] && data.footer.email) {
+      var emailAnchor = contactItems[2].querySelector('a');
+      if (emailAnchor) {
+        emailAnchor.href = 'mailto:' + data.footer.email;
+        var emailSpan = emailAnchor.querySelector('span');
+        if (emailSpan) emailSpan.textContent = data.footer.email;
+      }
+    }
+    // address is always at index 3
+    if (contactItems[3]) {
+      var s = contactItems[3].querySelector('span');
       if (s) s.textContent = data.footer.address;
     }
 
     // ── Footer: copyright (tb_xsbc432) ──────────────────────────────
     setHTML('.tb_xsbc432 .tb_text_wrap', data.footer.copyright);
+    // ── "Pesan Sekarang" / contact buttons ─────────────────────────
+    if (data.nav && data.nav.contactUrl) {
+      document.querySelectorAll('a[href*="kontak"]').forEach(function (a) {
+        a.href = data.nav.contactUrl;
+      });
+    }
+
     // ── Social links (header tb_lsju223 + footer tb_l9ob998) ────────
     if (data.socialLinks) {
       setSocialLinks('.tb_lsju223', data.socialLinks);
